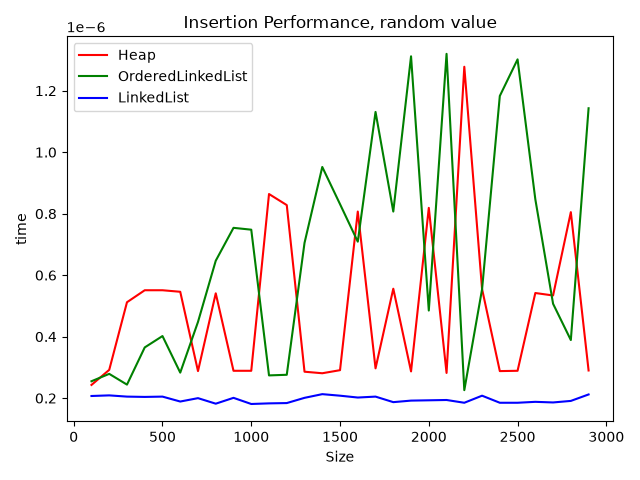
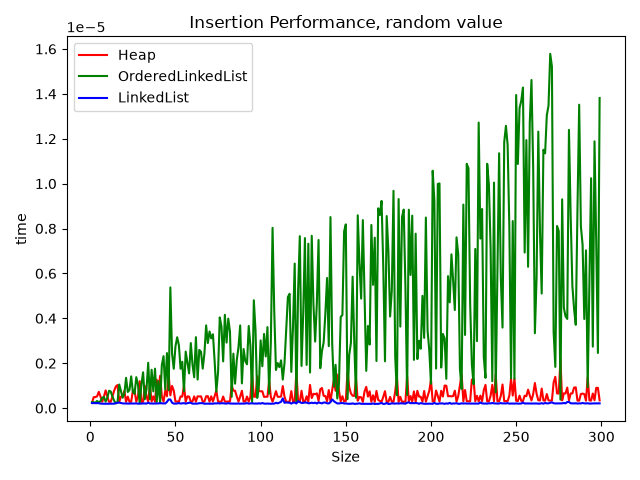
changed numbers for tests

diff --git a/PicchioniEs1LabAlg.py b/PicchioniEs1LabAlg.py
@@ -530,10 +530,10 @@ def increase_key_test(
     plot_graph(data_type, number_of_operation, time)
 
 
-number_of_elements = 3000
-step = 100
+number_of_elements = 300
+step = 1
 number_of_operation = range(step, number_of_elements, step)
-interval_end = 3000000
+interval_end = 30000
 number_of_repeats = 10
 inputs = random.choices(range(interval_end), k=number_of_elements)
 
